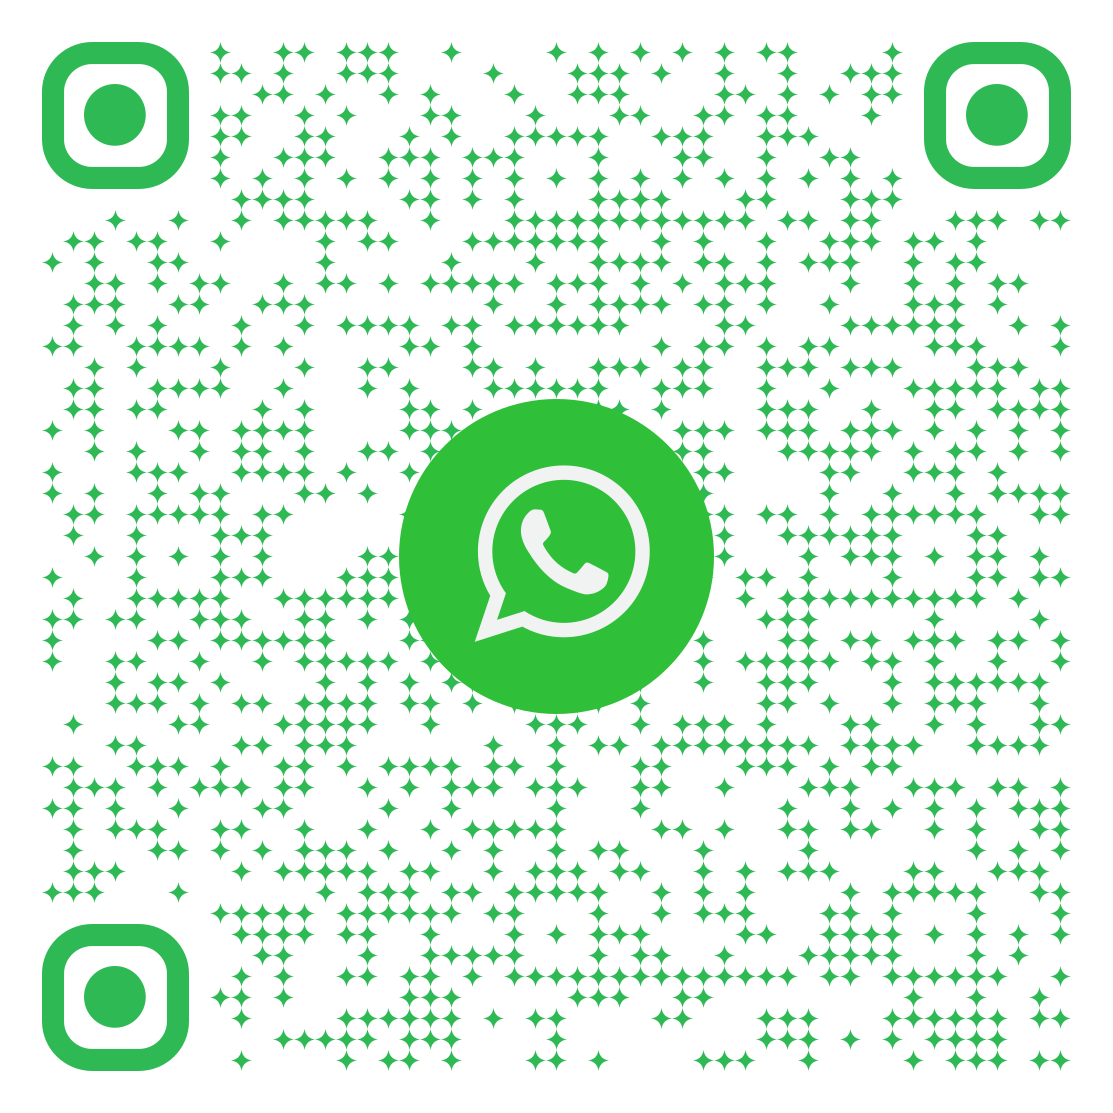
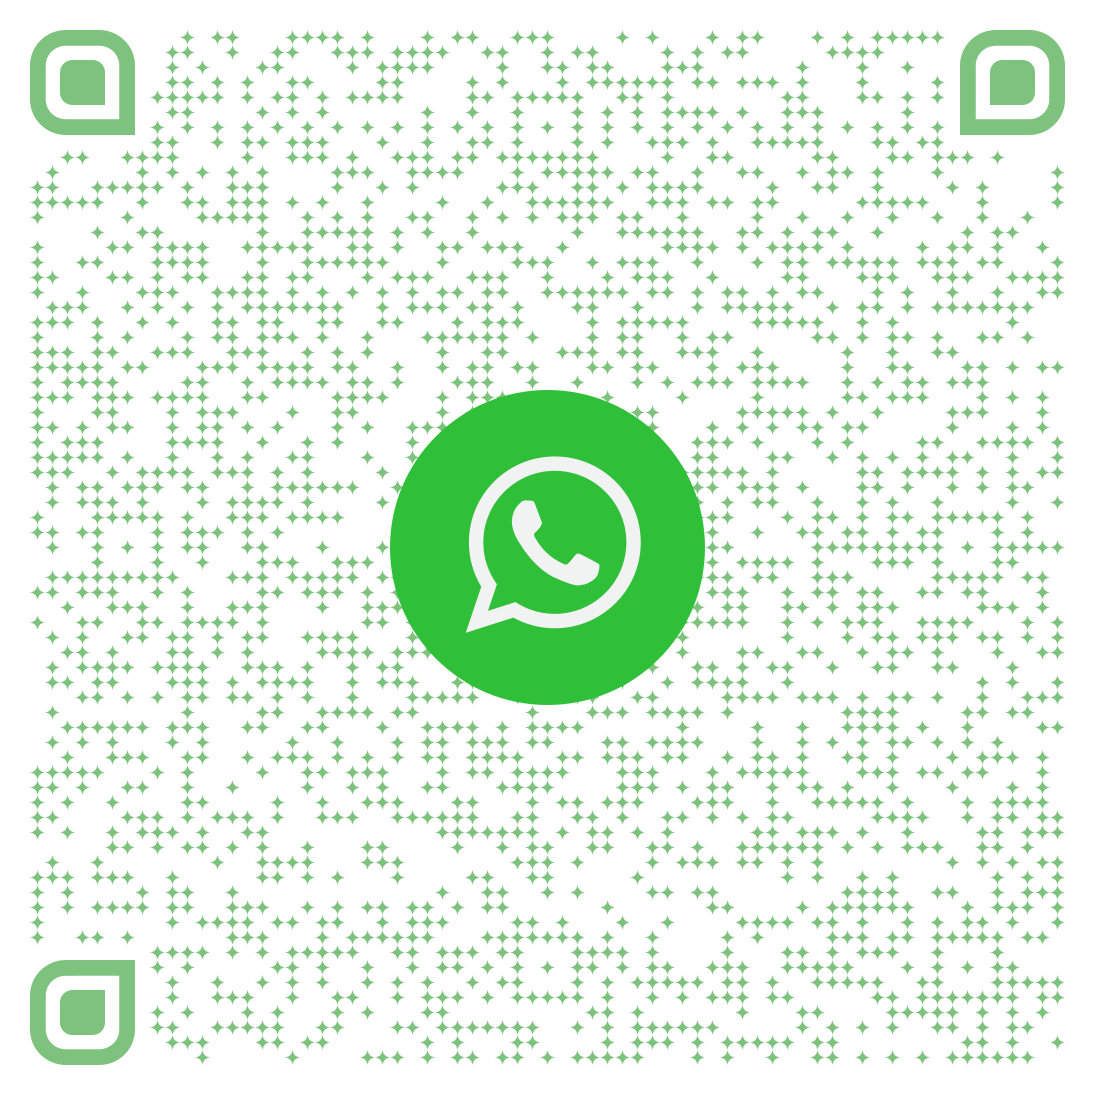
update wts

diff --git a/src/pages/info/index.js b/src/pages/info/index.js
@@ -32,7 +32,7 @@ const actions = [
   },
   {
     icon: (
-      <a target="_blank" href="https://wa.me/85264406336?text=你好，我想了解一下命理分析服務">
+      <a target="_blank" href="https://wa.me/85294780643?text=你好，我想了解一下命理分析服務">
         <WhatsAppIcon />
       </a>
     ),
@@ -557,7 +557,7 @@ export default function About() {
             <a target="_blank" href="https://www.instagram.com/yaoling_flystar/">
               <img src="/ig.jpg" alt="instagram" />
             </a>
-            <a target="_blank" href="https://wa.me/85264406336?text=你好，我想了解一下命理分析服務">
+            <a target="_blank" href="https://wa.me/85294780643?text=你好，我想了解一下命理分析服務">
               <img src="/whatsapp.png" alt="whatsapp" />
             </a>
           </div>
